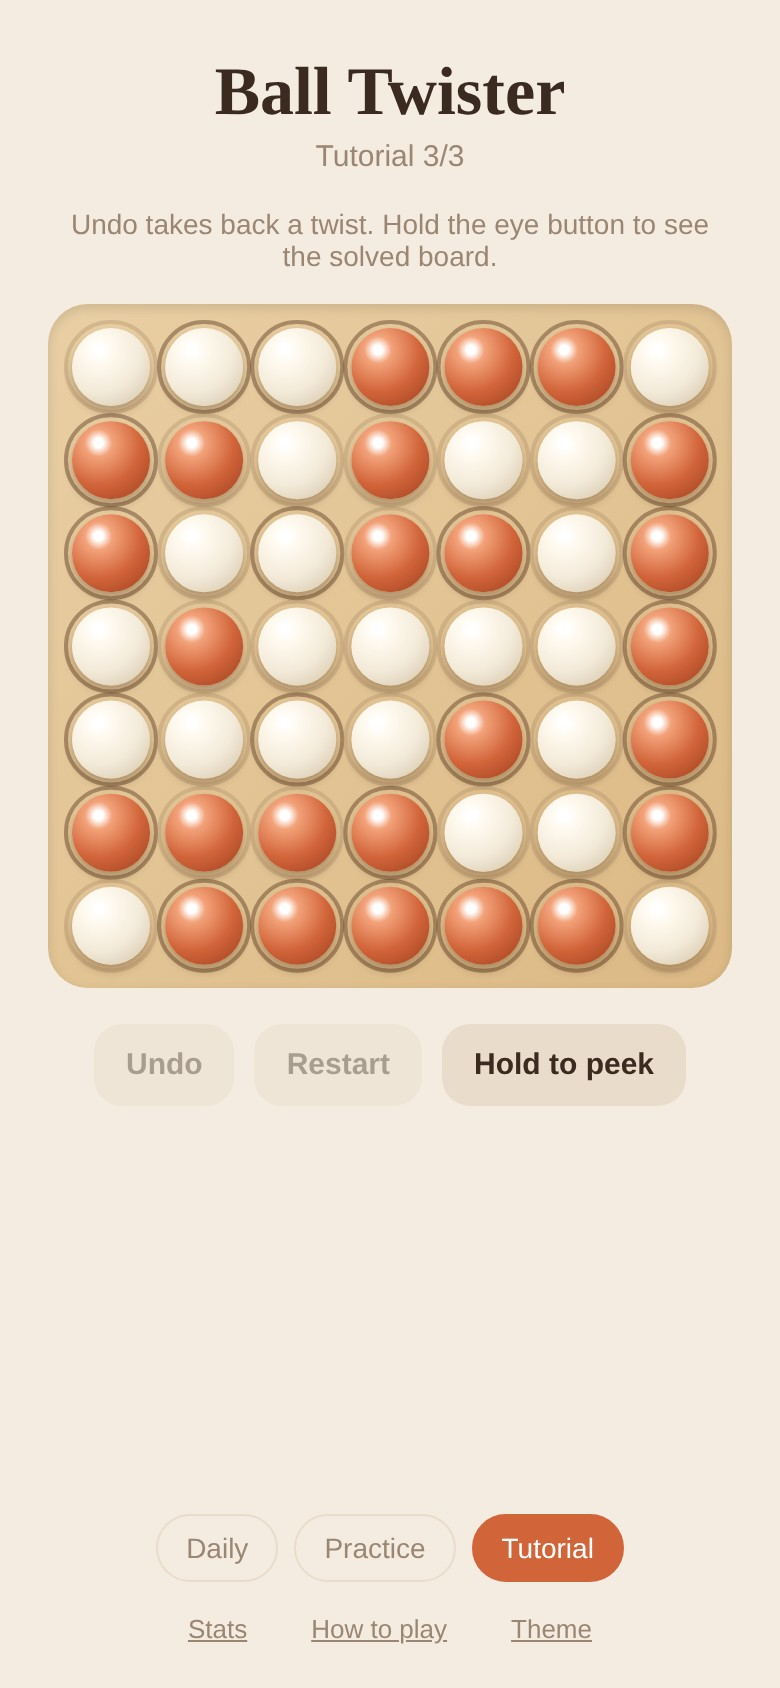
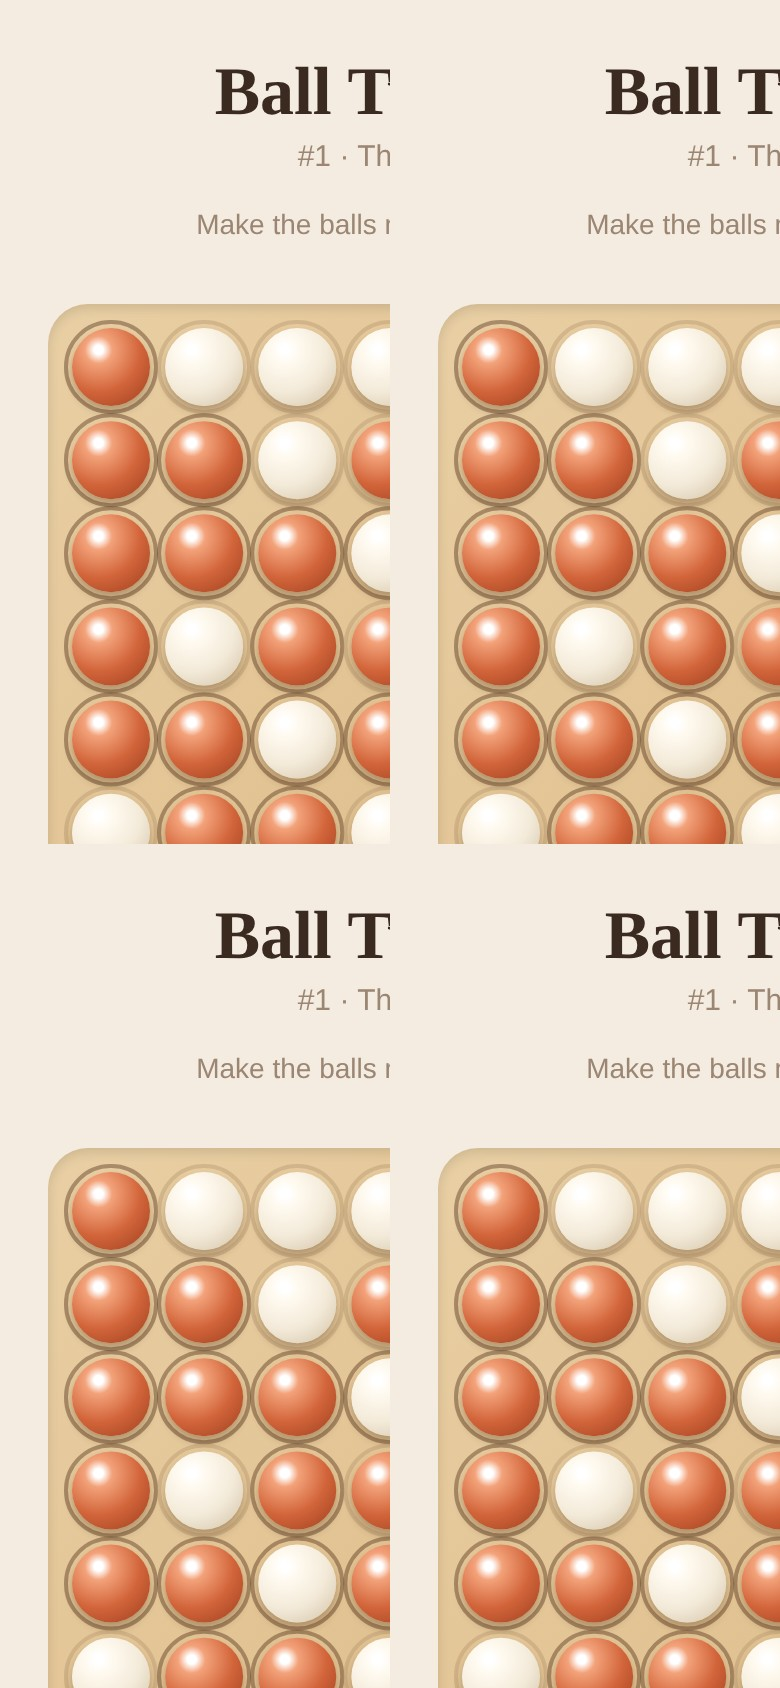
Add screenshots and readme

diff --git a/README.md b/README.md
@@ -10,3 +10,6 @@ A daily twisting puzzle. Plain HTML, CSS and JavaScript (ES modules).
 - `./launch.sh [port]` serves the game locally.
 
 Debug URL options: `?day=YYYY-MM-DD`, `?theme=mono`, `?skip`, `?nosw`.
+
+Live: https://grigorysolomatov.github.io/ball-twister/
+Screenshots: `docs/screenshots/`.
